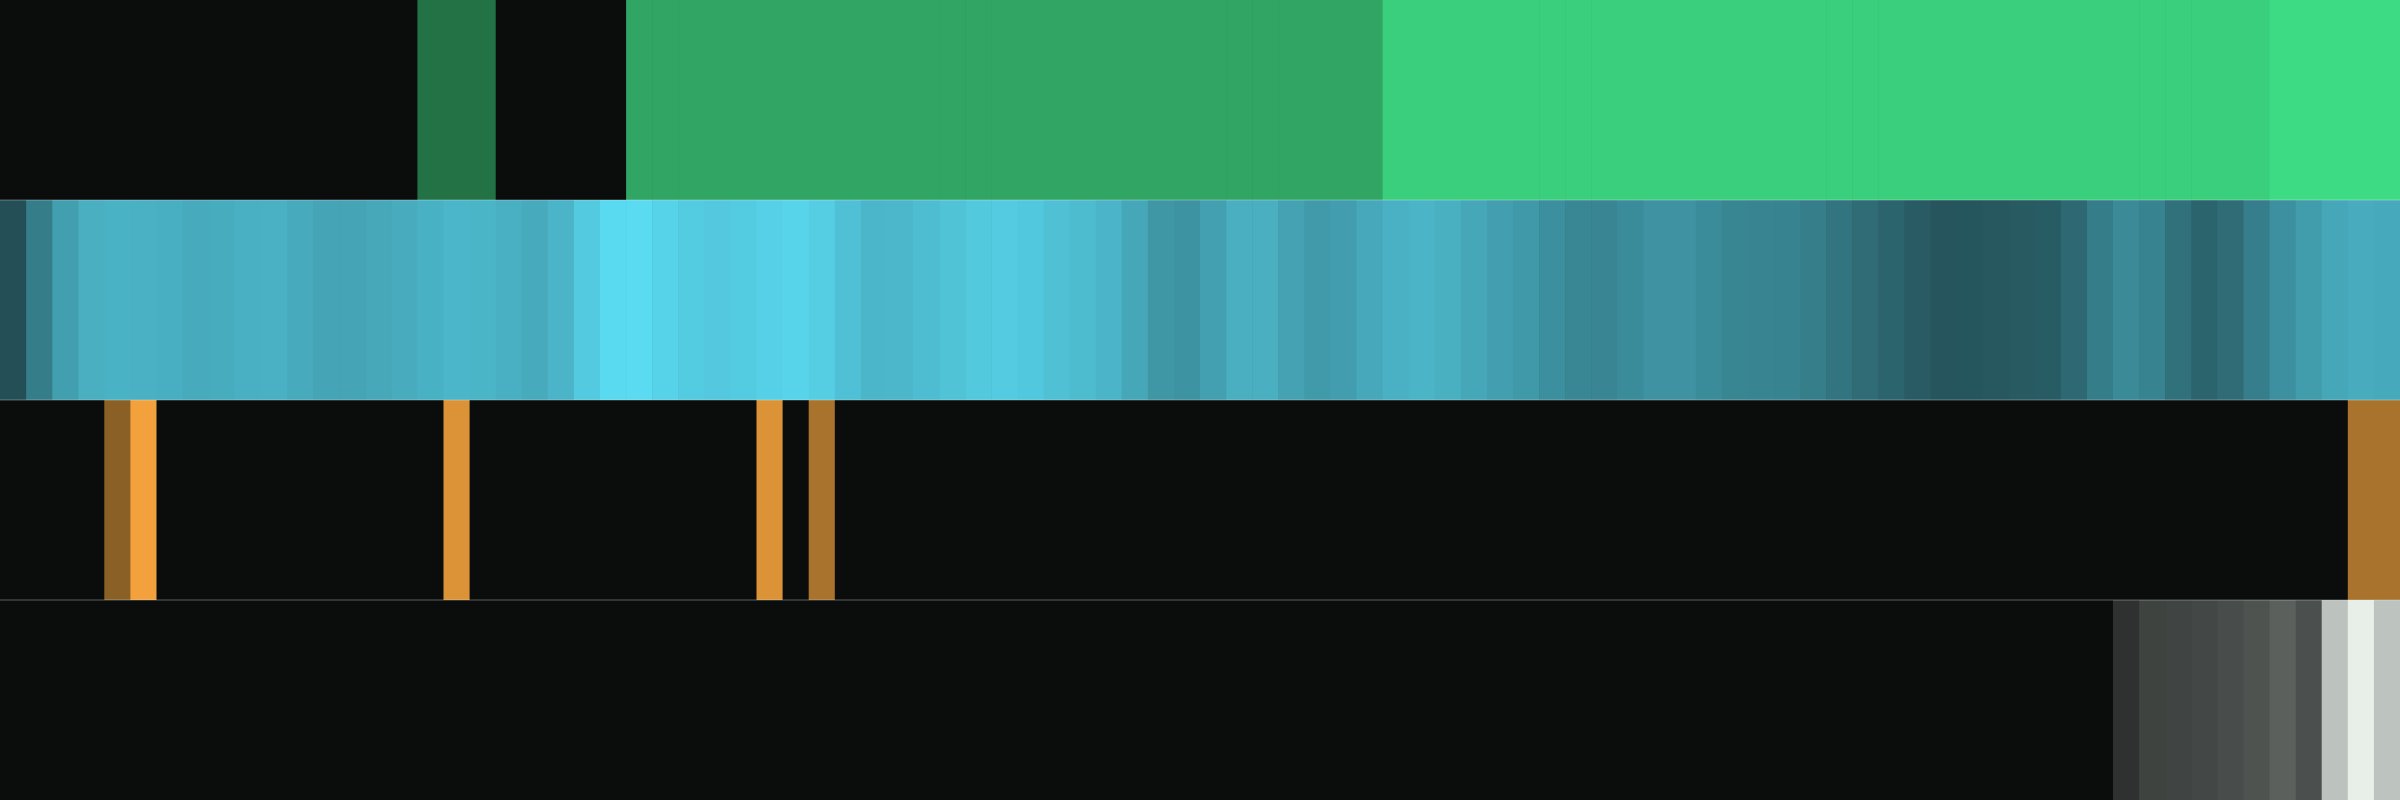
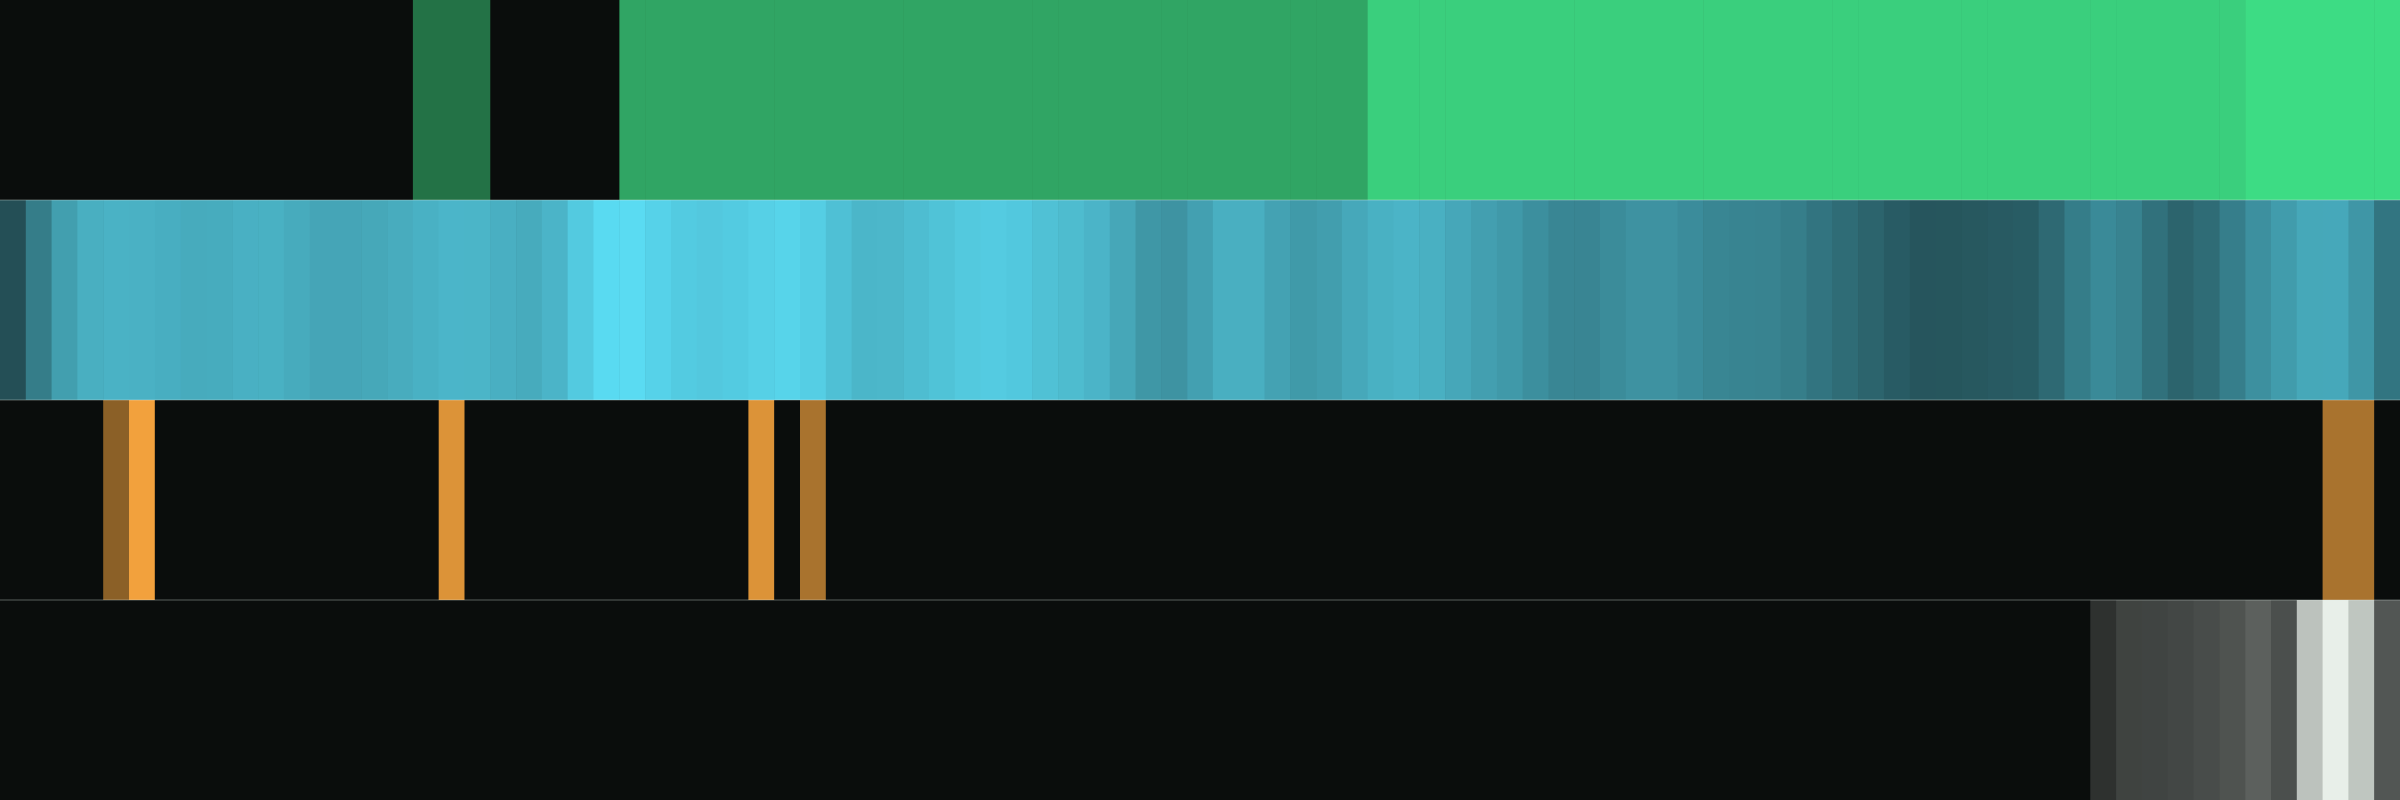
fix(gen): stamp the ops board from its inputs, so the drift gate stops failing on the date
gen-ops.mjs wrote new Date() into ops.ts while sitting in check-generated's
DETERMINISTIC list, and ci.yml runs that check. It passed on 2026-09-01 only
because it ran on the day it was stamped; today it fails on the date alone.
The stamp is now the newest generatedAt in the perimeter, which is what the
board measures anyway.

Also lands the generator churn a previous session left uncommitted
(timeline, corridor plate, sitemap).

diff --git a/src/world/corridorPlate.ts b/src/world/corridorPlate.ts
@@ -27,11 +27,11 @@ export interface CorridorPlateMeta {
   years: CorridorPlateYear[];
 }
 export const corridorPlateMeta: CorridorPlateMeta = {
-  "generatedAt": "2026-08-29T18:34:49.770Z",
+  "generatedAt": "2026-09-01T22:12:23.739Z",
   "width": 2400,
   "height": 800,
   "from": "2019-01",
-  "to": "2026-08",
+  "to": "2026-09",
   "lanes": [
     {
       "key": "work",
@@ -65,31 +65,31 @@ export const corridorPlateMeta: CorridorPlateMeta = {
     },
     {
       "year": 2020,
-      "xFraction": 0.13043478260869565
+      "xFraction": 0.1290322580645161
     },
     {
       "year": 2021,
-      "xFraction": 0.2608695652173913
+      "xFraction": 0.25806451612903225
     },
     {
       "year": 2022,
-      "xFraction": 0.39130434782608686
+      "xFraction": 0.3870967741935484
     },
     {
       "year": 2023,
-      "xFraction": 0.5217391304347826
+      "xFraction": 0.5161290322580645
     },
     {
       "year": 2024,
-      "xFraction": 0.6521739130434783
+      "xFraction": 0.6451612903225806
     },
     {
       "year": 2025,
-      "xFraction": 0.7826086956521737
+      "xFraction": 0.7741935483870968
     },
     {
       "year": 2026,
-      "xFraction": 0.9130434782608694
+      "xFraction": 0.9032258064516128
     }
   ]
 };

diff --git a/src/data/timeline.ts b/src/data/timeline.ts
@@ -25,7 +25,7 @@ export interface Timeline {
 }
 
 export const timeline: Timeline = {
-  "generatedAt": "2026-09-01T11:55:20.708Z",
+  "generatedAt": "2026-09-01T22:12:23.245Z",
   "from": "2019-01",
   "to": "2026-09",
   "months": [
@@ -488,9 +488,9 @@ export const timeline: Timeline = {
         "2026-06": 296,
         "2026-07": 272,
         "2026-08": 205,
-        "2026-09": 7
+        "2026-09": 13
       },
-      "total": 18969,
+      "total": 18975,
       "peak": {
         "ym": "2020-12",
         "v": 619
@@ -722,9 +722,9 @@ export const timeline: Timeline = {
         "2026-06": 1391,
         "2026-07": 2906,
         "2026-08": 1479,
-        "2026-09": 50
+        "2026-09": 68
       },
-      "total": 6354,
+      "total": 6372,
       "peak": {
         "ym": "2026-07",
         "v": 2906
